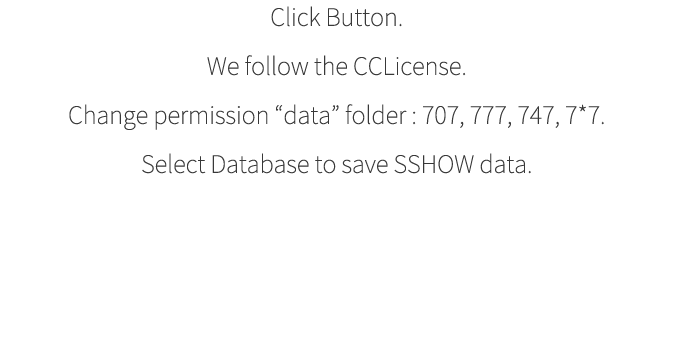
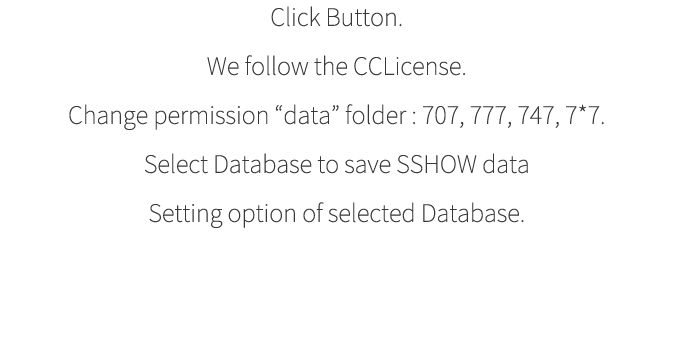
Update Setup
Update Setup

Changed region(s): [[0.2181, 0.4286, 0.8101, 0.5143], [0.2181, 0.5714, 0.7789, 0.6571]]

diff --git a/include/setup/js/index.js b/include/setup/js/index.js
@@ -1,5 +1,6 @@
 $(document).ready(function(){
 	
+	var settingArr = new Array;
 	logoAnimate(true);
 	
 	function logoAnimate(FlagLogo){
@@ -40,7 +41,7 @@ $(document).ready(function(){
 			
 			var optionBtnCircle = optionBtnCanvas.circle(10, 10, 7);
 			optionBtnCircle.id = $(this).attr('id');
-			optionBtnCircle.attr({'stroke':'none','fill':'#777777'});
+			optionBtnCircle.attr({'stroke':'none','fill':'#a4a4a4'});
 			
 			var optionBtnCircleSelect = optionBtnCanvas.circle(10, 10, 0);
 			optionBtnCircleSelect.id = $(this).attr('id') + '_select';
@@ -61,7 +62,7 @@ $(document).ready(function(){
 				var optionBtnThis = sshowBtn_optionArray[$(this).attr('id')].getById($(this).attr('id'));
 				var optionBtnSelectThis = sshowBtn_optionArray[$(this).attr('id')].getById($(this).attr('id')+'_select');
 				$(this).removeClass( 'sshowBtn_optionSelected' );
-				optionBtnThis.animate({ 'fill' : '#777777', 'r' : 7 }, 300, ">");
+				optionBtnThis.animate({ 'fill' : '#a4a4a4', 'r' : 7 }, 300, ">");
 				optionBtnSelectThis.animate({ 'r' : 0 }, 300, ">");
 			});
 		})
@@ -156,6 +157,7 @@ $(document).ready(function(){
 					go(3);
 				});
 			break;
+			
 			case 3 : 
 				$('#title_img').animate({'margin-top':-100},1000,"easeInOutBack");
 				$('#subtitle_img').delay(200).animate({'margin-top':-50},1000,"easeInOutBack");
@@ -298,8 +300,8 @@ $(document).ready(function(){
 							$('#content_wrap').slideDown(800,"easeInOutExpo");
 						});
 					});
-				} else if ($('#content_content_settingDB').css('display') != 'none'){
-					$('#content_content_settingDB').hide(600,"easeInOutExpo",function(){
+				} else if ($('#content_settingDB').css('display') != 'none'){
+					$('#content_settingDB').hide(600,"easeInOutExpo",function(){
 						$('#content_selectDB').show(600,"easeInOutExpo",function(){
 							$('#content_wrap').slideDown(800,"easeInOutExpo");
 						});
@@ -314,6 +316,22 @@ $(document).ready(function(){
 				prevBtn_circle.animate({ "r" : 22, "fill" : "#d3d3d3" }, 200, ">" );
 				prevBtn_line1.animate({ "path" : "M 20 30 L 37 21", "stroke" : "#7f7f7f" }, 200, ">" );
 				prevBtn_line2.animate({ "path" : "M 20 30 L 37 39", "stroke" : "#7f7f7f" }, 200, ">" );
+			
+				
+				$('#content_selectDB_list').find('.content_selectDB_eleWrap').each(function(){
+					$(this).show();
+				});
+				
+				var selectDB_animationTime = 1;
+
+				$('.content_selectDB_radio').each(function(){
+					$(this).css({'opacity':0});
+					$(this).delay(800).animate({'opacity':1}, 800, "easeInOutExpo");
+				});
+				$('.content_selectDB_name').find('img').each(function(){
+					$(this).css({'margin-left':100, 'opacity' : 0});
+					$(this).delay(700 + 70 * selectDB_animationTime).animate({'margin-left':0, 'opacity' : 1},800 + 100*selectDB_animationTime++,"easeInOutExpo");
+				});
 								
 				
 				$('#prev_btn')
@@ -321,15 +339,127 @@ $(document).ready(function(){
 				.animate({'left' : 245},800,"easeInOutExpo")
 				.on('click',function(){
 
-					go(3)
+					go(3);
 				})
 				$('#next_btn')
 				.stop()
 				.animate({'left' : 295},800,"easeInOutExpo")
 				.on('click',function(){
+					var wrapper = $('#content_selectDB_list').find('.sshowBtn_optionSelected').parent().parent();
+					settingArr['dbtype'] = wrapper.find('img').attr('alt');
+
+					if(typeof settingArr['dbtype'] == 'undefined'){
+						nextBtn_circle.animate({ 'fill' : "#e44651"},100);
+								nextBtn_line1.animate({ "path" : "M 22 22 L 38 38", "stroke" : "#e2e2e2" }, 200, "bounce" );
+								nextBtn_line2.animate({ "path" : "M 38 22 L 22 38", "stroke" : "#e2e2e2" }, 200, "bounce" );
+			
+								$('#next_btn').stop().animate({'left' : 305},600,"easeOutBounce",function(){
+									$('#next_btn').animate({'left' : 295},200,"easeOutBack");
+									nextBtn_circle.animate({ 'fill' : "#777777"},200);
+									nextBtn_line1.animate({ "path" : "M 24 21 L 41 30", "stroke" : "#e2e2e2" }, 100, "bounce" );
+									nextBtn_line2.animate({ "path" : "M 41 30 L 24 39", "stroke" : "#e2e2e2" }, 100, "bounce" );
+						});
+					}else{
+
+						$('#content_settingDB_load').load(_SSHOW_URL_+'common/db/'+settingArr['dbtype']+'/setup.php',function(){
+
+							go(5);
+							
+						});
+						
+					}
+				});
+			break;
+			
+			case 5 :
+				$('#title_img').animate({'margin-top':-200},1000,"easeInOutBack");
+				$('#subtitle_img').delay(200).animate({'margin-top':-100},1000,"easeInOutBack");
+
+				$('#subtitle_wrap').slideDown(800,"easeOutBounce");
+
+				if($('#content_selectDB').css('display') != 'none'){
+					$('#content_selectDB').hide(600,"easeInOutExpo",function(){
+						$('#content_settingDB').show(600,"easeInOutExpo",function(){
+							$('#content_wrap').slideDown(800,"easeInOutExpo");
+						});
+					});
+				} else if ($('#content_settingUser').css('display') != 'none'){
+					$('#content_settingUser').hide(600,"easeInOutExpo",function(){
+						$('#content_selectUser').show(600,"easeInOutExpo",function(){
+							$('#content_wrap').slideDown(800,"easeInOutExpo");
+						});
+					});
+				} else {
+					$('#content_settingDB').show();
+					$('#content_wrap').slideDown(800,"easeInOutExpo");
+				}
+				
+				nextBtn_circle.animate({ "r" : 22, "fill" : "#777777" }, 200, ">" );
+				nextBtn_line1.animate({ "path" : "M 24 21 L 41 30", "stroke" : "#e2e2e2" }, 200, ">" );
+				nextBtn_line2.animate({ "path" : "M 41 30 L 24 39", "stroke" : "#e2e2e2" }, 200, ">" );
+				prevBtn_circle.animate({ "r" : 22, "fill" : "#d3d3d3" }, 200, ">" );
+				prevBtn_line1.animate({ "path" : "M 20 30 L 37 21", "stroke" : "#7f7f7f" }, 200, ">" );
+				prevBtn_line2.animate({ "path" : "M 20 30 L 37 39", "stroke" : "#7f7f7f" }, 200, ">" );		
+				
+				var setArray = $('#content_settingDB_load').html().split(',');
+				var setArrayCount = setArray.length;
+				console.log(setArray);
+				var appendSettingForm = function( key ){
+					var inputType = "text";
+					if(key == "password"){
+						inputType = "password";
+					}
+					return '<div class="content_settingDB_eleWrap">'
+					+	'<div class="content_settingDB_key">'
+					+ 					key.substring(0, 1).toUpperCase() + key.substring(1, key.length).toLowerCase() + '&nbsp;&nbsp;:&nbsp;&nbsp;'
+					+	'</div>'
+					+	'<div class="content_settingDB_input">'
+					+		'<input id="content_settingDB_input_'+ key +'" type="'+ inputType +'" />'
+					+	'</div>'
+					+'</div>';
+				}
+				$('#content_settingDB_content').html('<div class="content_settingDB_img"><img src="'+_SSHOW_URL_+'common/db/'+settingArr['dbtype']+'/logo.png" width="102" height="50" alt="'+settingArr['dbtype']+'" /></div>');
+				for(var i = 0; i < setArrayCount; i++ ){
+					$('#content_settingDB_content').append( appendSettingForm( setArray[i] ) );
+				}
+				$('#content_settingDB input').focus();
+				
+				
+						
+				
+				$('#prev_btn')
+				.stop()
+				.animate({'left' : 245},800,"easeInOutExpo")
+				.on('click',function(){
+
+					go(4);
+				})
+				$('#next_btn')
+				.stop()
+				.animate({'left' : 295},800,"easeInOutExpo")
+				.on('click',function(){
+					var settingValue = "";
+					for(var i = 0; i < setArrayCount; i++){
+						if(i != 0){
+							settingValue+= ",";
+						}
+						settingValue += setArray[i]+":"+$('#content_settingDB_input_'+setArray[i]).val();
+					}
+					console.log(settingValue);
+					
+					$.ajax({
+						type: "POST",
+						url: _SSHOW_URL_+'common/db/'+settingArr['dbtype']+'/action/setup.php',
+						data: { set : settingValue },
+						success: function(e){
+							alert(e);
+						}
+					});
+						//go(6);
 				
 				});
 			break;
+			
 		}
 	}
 	go(1);

diff --git a/include/setup/css/index.css b/include/setup/css/index.css
@@ -18,6 +18,7 @@ body
 {
 	margin: 0 auto;
 	height: 100%;
+	font-family: "맑은 고딕", Tahoma, "돋움";
 }
 
 .setup_button
@@ -111,10 +112,23 @@ body
 {
 	margin: 0 auto;
 	position: relative;
+	width: 425px;
 	display: none;
 }
 
+#content_license
+{
+	position: relative;
+	margin: 0 auto;
+	height: 190px;
+}
 
+#content_permission
+{
+	position: relative;
+	margin: 0 auto;
+	height: 138px;
+}
 #content_permission_slot_wrap
 {
 	margin: 0 auto;
@@ -169,6 +183,7 @@ body
 	float: left;
 	height: 50px;
 	margin-bottom: 10px;
+	
 }
 
 .content_selectDB_radio
@@ -188,6 +203,73 @@ body
 	height: 50px;
 	cursor: pointer;
 	text-align: right;
+	
+}
+
+#content_settingDB_load
+{
+	display: none;
+}
+
+#content_settingDB_content
+{
+	position: relative;
+	margin: 0 auto;
+	width: 100%;
+}
+
+.content_settingDB_img
+{
+	position: relative;
+	margin: 0 auto;
+	width: 100%;
+	margin-top: 10px;
+	margin-bottom: 20px;
+}
+.content_settingDB_eleWrap
+{
+	position: relative;
+	margin: 0 auto;
+	height: 25px;
+	width: 350px;
+	margin-bottom: 15px;
+	margin-top: 10px;
+}
+
+.content_settingDB_key
+{
+	position: relative;
+	margin: 0 auto;
+	float: left;
+	width: 175px;
+	height: 25px;
+	text-align: right;
+	font-size: 17px;
+	color: #626262;
+	
+}
+
+.content_settingDB_input
+{
+	position: relative;
+	margin: 0 auto;
+	float: left;
+	width: 175px;
+	height: 25px;
+	text-align: left;
+}
+
+.content_settingDB_input input
+{
+	border: none;
+	outline: none;
+	font-size: 16px;
+	width: 130px;
+	height: 22px;
+	margin: 0px 0px;
+	padding: 0px 0px;
+	border-bottom: 1px solid #8f8f8f;
+	color: #8f8f8f;
 }
 
 #btn_wrap

diff --git a/include/setup/index.php b/include/setup/index.php
@@ -30,6 +30,7 @@ define( '__SSHOW_SETUP_URL__' , _SSHOW_URL_.'include/setup/' );
 	<script type="text/javascript">
 	var __SSHOW_SETUP_URL__ = "<?=__SSHOW_SETUP_URL__?>";
 	var __SSHOW_SETUP_DIR__ = "<?=__SSHOW_SETUP_DIR__?>";
+	var _SSHOW_URL_ = "<?=_SSHOW_URL_?>";
 	var _SSHOW_DIR_ = "<?=_SSHOW_DIR_?>";
 	</script>
 </head>
@@ -54,10 +55,10 @@ define( '__SSHOW_SETUP_URL__' , _SSHOW_URL_.'include/setup/' );
 	<img id="subtitle_img" src="<?=__SSHOW_SETUP_URL__?>img/subtitle.png" width="337" height="175" alt="SSHOW" />
 	</div>
 	<div id="content_wrap">
-		<div id="content_license" class="content_content" style="width:425px; height:190px;">
+		<div id="content_license" class="content_content">
 		<img src="<?=__SSHOW_SETUP_URL__?>img/license.png" width="425" height="188" alt="License" />
 		</div>
-		<div id="content_permission" class="content_content" style="width:425px; height:138px;">
+		<div id="content_permission" class="content_content">
 			<div id="content_permission_slot_wrap">
 				<div id="content_permission_slot_mask">
 					<img id="content_permission_slot_mask_img" src="<?=__SSHOW_SETUP_URL__?>img/permission_slot_mask.png" width="165" height="100" />
@@ -81,7 +82,7 @@ define( '__SSHOW_SETUP_URL__' , _SSHOW_URL_.'include/setup/' );
 		<?php
 		$dbListArray = $sshowClass_stdlib->dlist( _SSHOW_DIR_.'common/db/' );
 		?>
-		<div id="content_selectDB" class="content_content" style="width:425px;">
+		<div id="content_selectDB" class="content_content">
 			<div id="content_selectDB_list" class="sshowBtn_optionGroup">
 		<?php
 
@@ -98,7 +99,13 @@ define( '__SSHOW_SETUP_URL__' , _SSHOW_URL_.'include/setup/' );
 		?>
 			</div>
 		</div>
-		<div id="content_settingDB" class="content_content" style="width:425px; height:100px;">
+		<div id="content_settingDB" class="content_content">
+			<div id="content_settingDB_load"></div>
+			<div id="content_settingDB_content">
+			</div>
+		</div>
+		<div id="content_settingUser" class="content_content" style="width:425px; height:100px;">
+			
 		</div>
 	</div>
 	<div id="btn_wrap">

diff --git a/common/db/mysql/action/setup.php b/common/db/mysql/action/setup.php
@@ -1,0 +1,18 @@
+<?php
+	$set = explode(',', $_POST['set']);
+	foreach($set as $v){
+		$_value = explode(':', $v);
+		$value[$_value[0]] = $_value[1];
+	}
+	print_r($value);
+
+
+$link = mysql_connect($value['hostname'], $value['username'], $value['password']);
+if (!$link) {
+    die($link.'Could not connect: ' . mysql_error());
+}
+echo $link.'Connected successfully';
+mysql_close($link);
+
+
+?>

diff --git a/core/container.php b/core/container.php
@@ -20,6 +20,7 @@ function _sshowFunc_Main_import_commonJS_( $jsArray ){
 	foreach( $jsArray as $jsKey => $jsValue ){
 		$jsURL = _SSHOW_URL_.'common/js/'.$jsValue;
 		
+		
 		if( $jsURL != _SSHOW_JQUERY_URL_ && $jsURL != _SSHOW_JQUERY_UI_URL_ && $jsURL != _SSHOW_RAPHAEL_URL_ ){
 			echo '
 	<script type="text/javascript" src="'.$jsURL.'"></script>';

diff --git a/common/db/sshdb/setup.php b/common/db/sshdb/setup.php
@@ -1,0 +1,1 @@
+dbname,dbdir,hostname,username,password

diff --git a/common/db/mysql/setup.php b/common/db/mysql/setup.php
@@ -1,0 +1,1 @@
+dbname,hostname,username,password

diff --git a/include/admin/index.php b/include/admin/index.php
@@ -1,1 +1,1 @@
-setup
+admin
